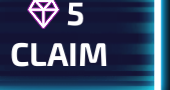
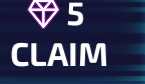
Fix claim-all: only claim/scroll when inside an overlay (new `if` step)
Bug: the claim routine's swipes ran unconditionally, so when a tab had no badge
(tap skipped) it scrolled the main menu/game, which also broke the later star
tap. Added an `if` macro step (run inner steps only if a template is present)
and wrapped each claim routine in `if return_game present` — so scrolling/claiming
only happens inside the Tasks/Event overlay.

Verified live: no rewards -> 0 swipes (no menu scrolling); forced star tap ->
Event opens, guarded claim runs, returns to game.

diff --git a/automation_engine.py b/automation_engine.py
@@ -233,6 +233,15 @@ def _run_step(device, step, log, width, height, stop):
         device.tap_xy(x, int(best_yc))
         return 1
 
+    if do == 'if':
+        # Run inner steps only if a template is present (or absent, present:false).
+        tpl = step.get('template')
+        th = float(step.get('threshold', 0.8))
+        found = bool(tpl) and find_template(device.capture(), tpl, threshold=th) is not None
+        if found == bool(step.get('present', True)):
+            return run_steps(device, step.get('steps', []), log, width, height, stop)
+        return 0
+
     if do == 'repeat':
         inner = step.get('steps', [])
         max_iter = int(step.get('max', 20))